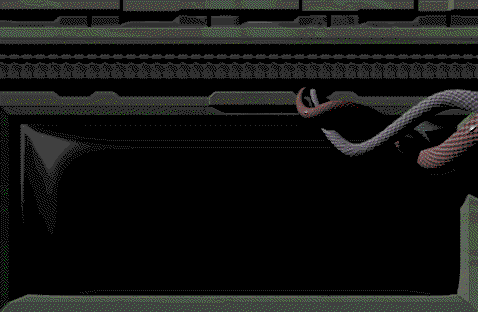
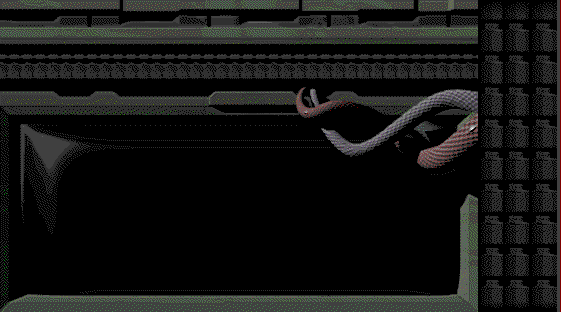
WIN.DMF

Changed region(s): [[0.0, 0.0, 1.0, 1.0]]

diff --git a/code/modules/sovlpanel/html/html/statpanel.html b/code/modules/sovlpanel/html/html/statpanel.html
@@ -336,7 +336,7 @@
 				background-size: auto, auto;
 				top: 0px;
 				left: 0px;
-				width: 478px;
+				width: 561px;
 				height: 312px;
 				background-color: red;
 			}
@@ -360,6 +360,8 @@
 				padding: 5px;
 				z-index: 4;
 				overflow-y: auto;
+				overflow-x: hidden;
+				word-wrap: break-word;
 				scrollbar-face-color: #1a1a1a;
 				scrollbar-track-color: #171717;
 				scrollbar-highlight-color: #171717;
@@ -448,20 +450,6 @@
 				position: absolute;
 				z-index: 1;
 				height: 35px;
-				pointer-events: none;
-			}
-
-			#sidepanel {
-				background-image: url("stats1.png");
-				top: 0px;
-				left: 478px;
-				position: absolute;
-				z-index: 1;
-				overflow: hidden;
-				background-repeat: no-repeat;
-				background-size: auto, auto;
-				width: 478px;
-				height: 312px;
 				pointer-events: none;
 			}
 
